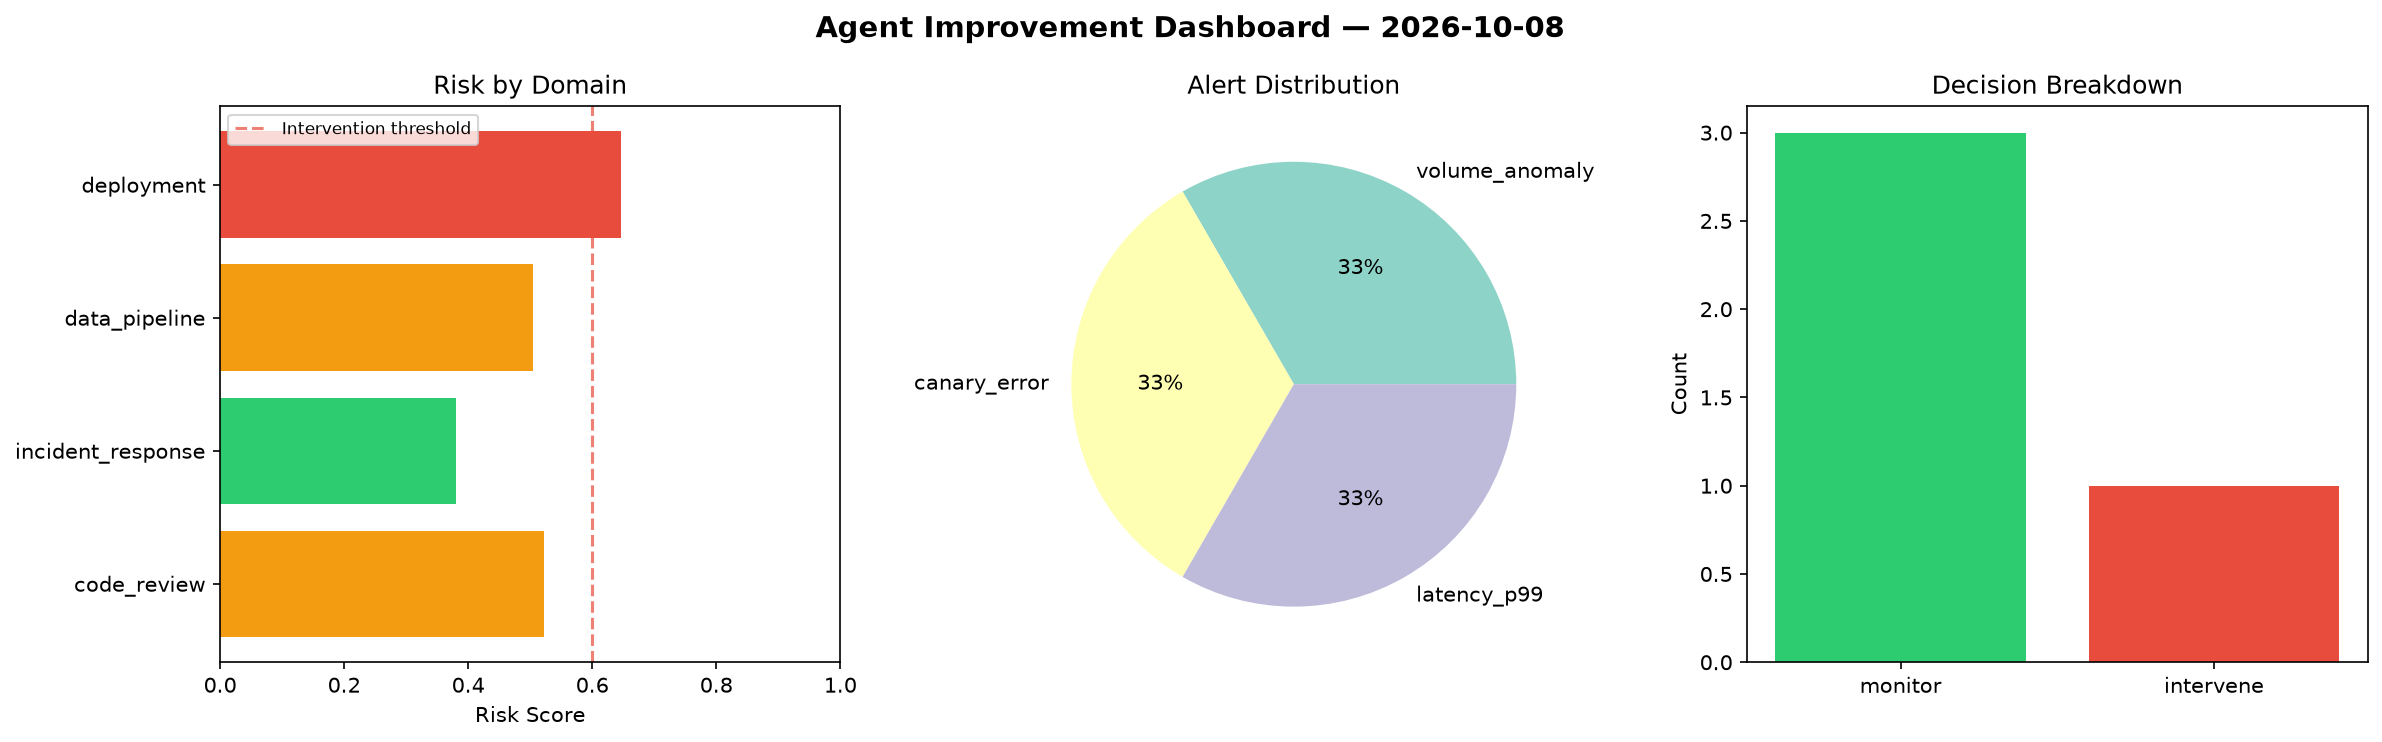
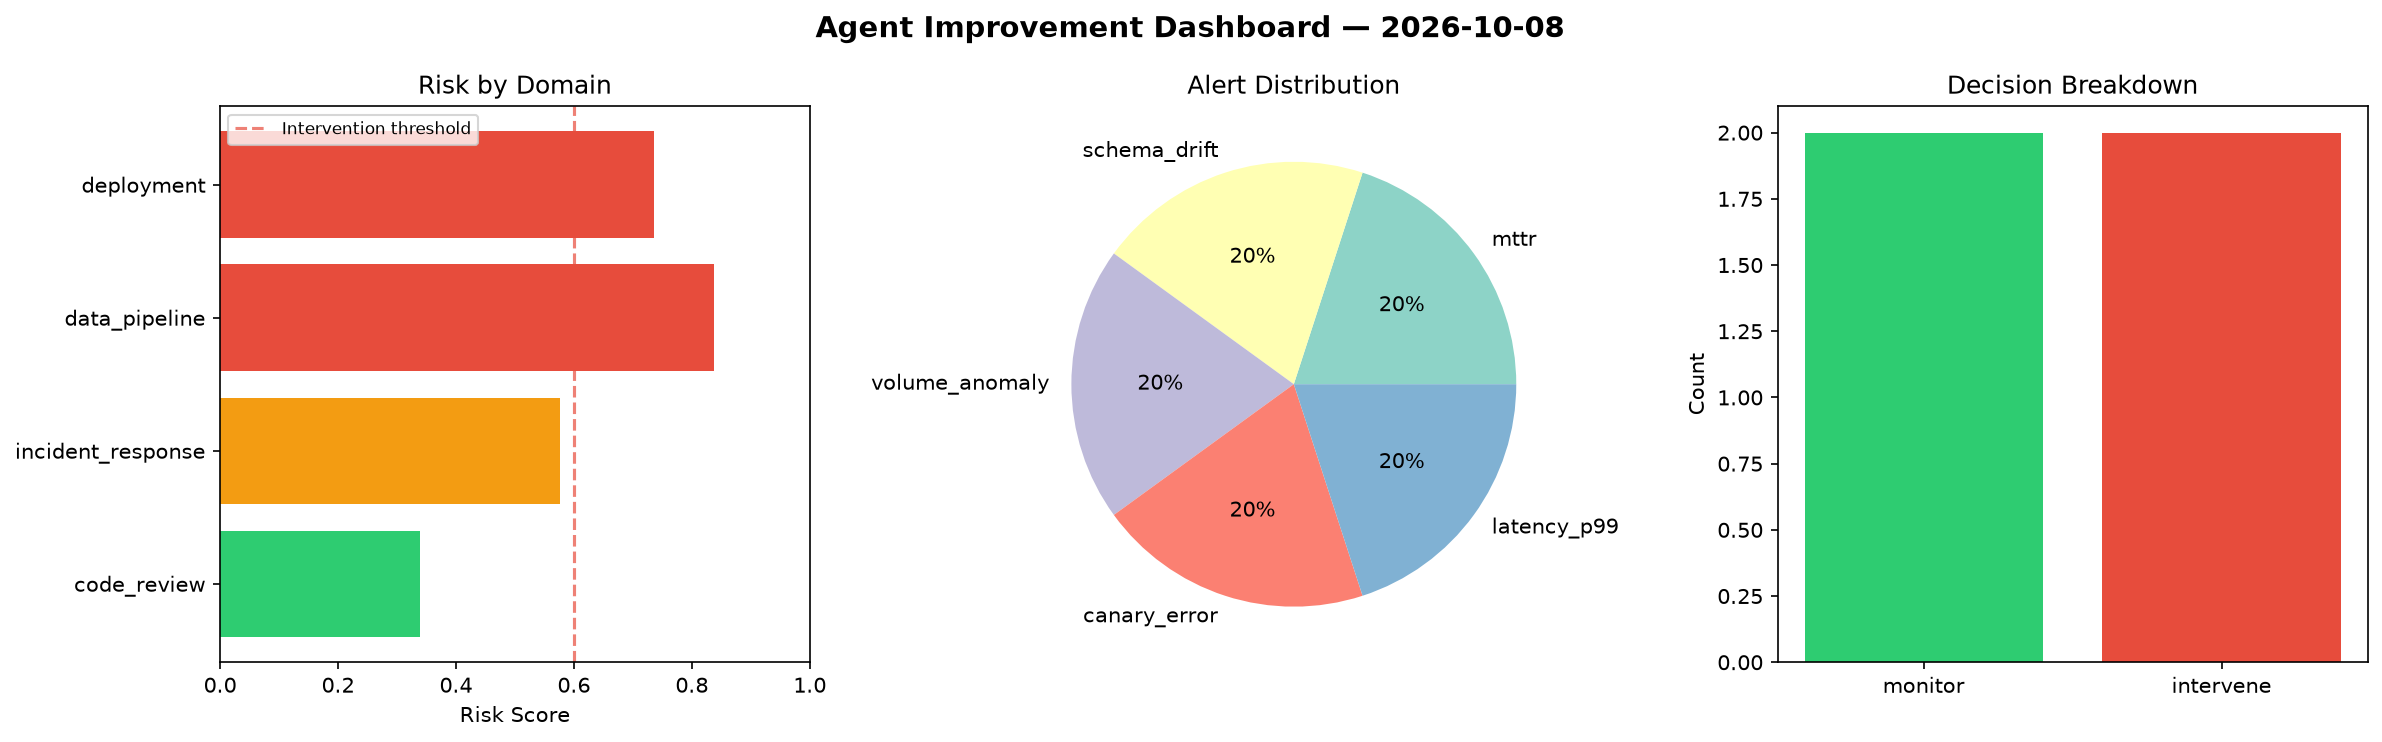
agent-improvement: daily cycle 2026-10-08T08:55

diff --git a/logs/2026-10-08.md b/logs/2026-10-08.md
@@ -1,6 +1,6 @@
 # Agent Improvement Report — 2026-10-08
 
-**Cycle ID:** `c701b865` | **Avg Risk:** 0.5132 | **Interventions:** 1/4
+**Cycle ID:** `f5422acd` | **Avg Risk:** 0.6217 | **Interventions:** 2/4
 
 ![Dashboard](2026-10-08_dashboard.png)
 
@@ -10,18 +10,18 @@
 
 | Domain | Risk Score | Decision | Alerts |
 |--------|-----------|----------|--------|
-| code_review | 0.522 | monitor | none |
-| incident_response | 0.38 | monitor | none |
-| data_pipeline | 0.5042 | monitor | volume_anomaly |
-| deployment | 0.6468 | intervene | canary_error, latency_p99 |
+| code_review | 0.3385 | monitor | none |
+| incident_response | 0.576 | monitor | mttr |
+| data_pipeline | 0.8368 | intervene | schema_drift, volume_anomaly |
+| deployment | 0.7355 | intervene | canary_error, latency_p99 |
 
 ## Delta vs Yesterday
 
 | Domain | Today | Yesterday | Change |
 |--------|-------|-----------|--------|
-| code_review | 0.522 | 0.5978 | 📉 -12.7% |
-| incident_response | 0.38 | 0.4255 | 📉 -10.7% |
-| data_pipeline | 0.5042 | 0.4416 | 📈 14.2% |
-| deployment | 0.6468 | 0.6032 | 📈 7.2% |
+| code_review | 0.3385 | 0.5978 | 📉 -43.4% |
+| incident_response | 0.576 | 0.4255 | 📈 35.4% |
+| data_pipeline | 0.8368 | 0.4416 | 📈 89.5% |
+| deployment | 0.7355 | 0.6032 | 📈 21.9% |
 
 **Refinement:** `{'adjustment': 'tighten_thresholds', 'trend': 'degrading', 'window': 4}`
